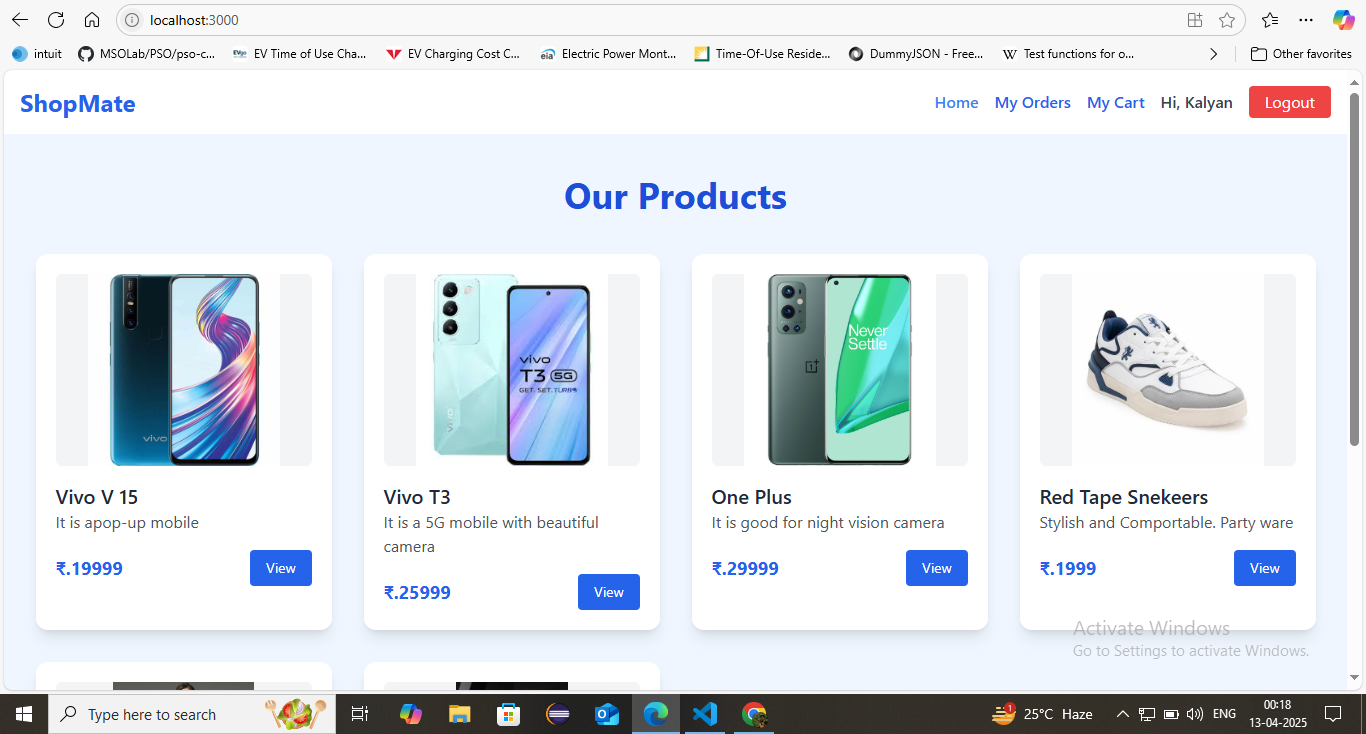
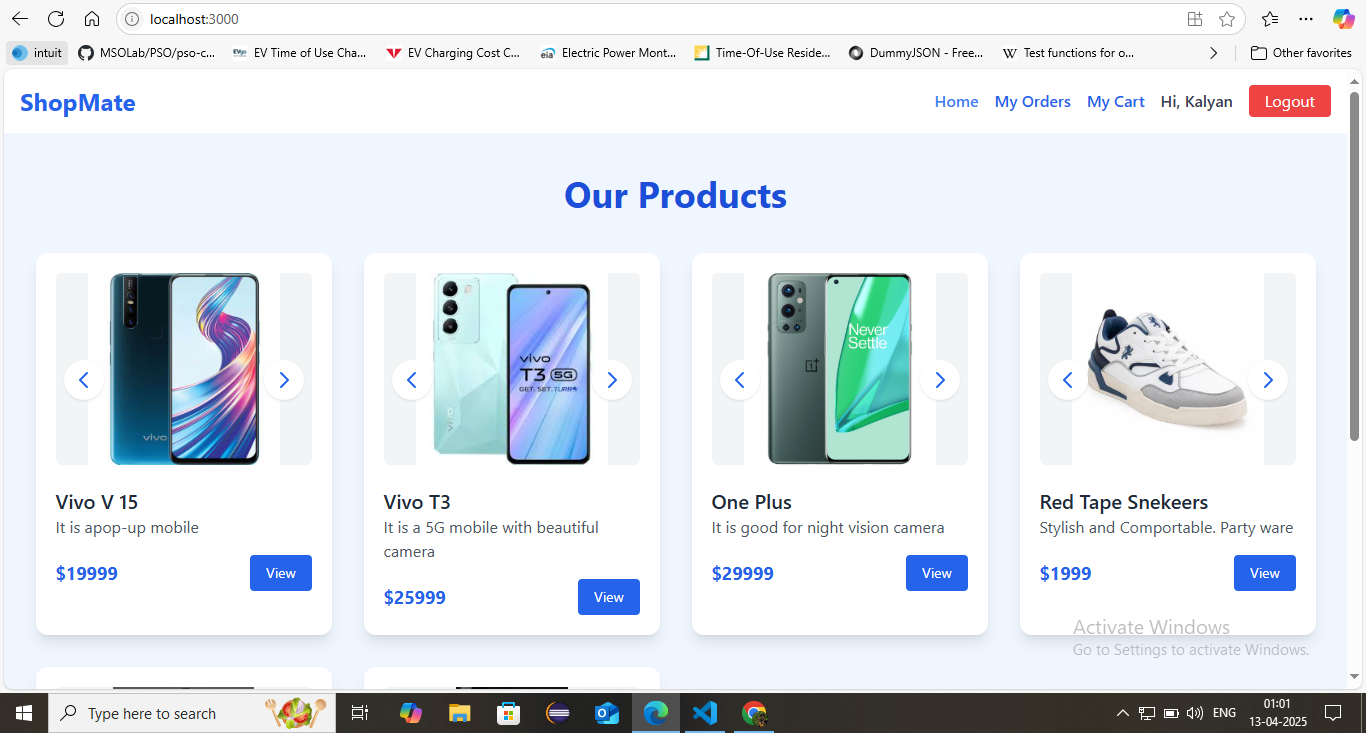
cart page updated!

diff --git a/front-end/src/pages/ProductDetails.jsx b/front-end/src/pages/ProductDetails.jsx
@@ -5,36 +5,8 @@ import Slider from 'react-slick';
 import { useCart } from '../context/CartContext'; // adjust path as needed
 import { toast } from 'react-toastify';
 import { Link } from 'react-router-dom';
+import { sliderSettings } from './SliderSettings'
 
-
-const NextArrow = (props) => {
-    const { onClick } = props;
-    return (
-      <div
-        onClick={onClick}
-        className="absolute right-2 top-1/2 transform -translate-y-1/2 z-10 cursor-pointer bg-white p-2 rounded-full shadow hover:bg-blue-100"
-      >
-        <svg xmlns="http://www.w3.org/2000/svg" className="h-6 w-6 text-blue-600" fill="none" viewBox="0 0 24 24" stroke="currentColor">
-          <path strokeLinecap="round" strokeLinejoin="round" strokeWidth="2" d="M9 5l7 7-7 7" />
-        </svg>
-      </div>
-    );
-  };
-  
-  const PrevArrow = (props) => {
-    const { onClick } = props;
-    return (
-      <div
-        onClick={onClick}
-        className="absolute left-2 top-1/2 transform -translate-y-1/2 z-10 cursor-pointer bg-white p-2 rounded-full shadow hover:bg-blue-100"
-      >
-        <svg xmlns="http://www.w3.org/2000/svg" className="h-6 w-6 text-blue-600" fill="none" viewBox="0 0 24 24" stroke="currentColor">
-          <path strokeLinecap="round" strokeLinejoin="round" strokeWidth="2" d="M15 19l-7-7 7-7" />
-        </svg>
-      </div>
-    );
-  };
-  
 
 const ProductDetails = () => {
   const { id } = useParams();
@@ -67,15 +39,7 @@ const ProductDetails = () => {
   if (loading) return <div className="text-center py-10 text-lg">Loading...</div>;
   if (!product) return <div className="text-center py-10 text-red-500">Product not found.</div>;
 
-  const sliderSettings = {
-    dots: false,
-    infinite: true,
-    speed: 500,
-    slidesToShow: 1,
-    slidesToScroll: 1,
-    nextArrow: <NextArrow />,
-    prevArrow: <PrevArrow />
-  };
+
   
   return (
     <div className="min-h-screen bg-gradient-to-br from-white via-blue-50 to-blue-100 p-6 flex items-center justify-center">

diff --git a/front-end/src/pages/Home.jsx b/front-end/src/pages/Home.jsx
@@ -1,6 +1,8 @@
 import React, { useEffect, useState } from 'react';
 import axios from 'axios';
 import { Link } from 'react-router-dom';
+import Slider from 'react-slick';
+import { sliderSettings } from './SliderSettings'
 
 
 const Home = () => {
@@ -42,14 +44,20 @@ const Home = () => {
               className="bg-white rounded-xl shadow-lg p-5 hover:shadow-2xl transition-all"
             >
               
-              {
-              product.images && product.images.length > 0 && (
-                <img
-                  src={`http://localhost:5000/${product.images[0].path}`}
-                  alt={product.title}
-                  className="w-full h-48 object-contain rounded-md mb-4 bg-gray-100"
-                />
-              )}
+
+              <Slider {...sliderSettings}>
+                {
+                  product.images.map((img, index) => (
+                    <div key={index} className="flex items-center justify-center">
+                      <img
+                        src={`http://localhost:5000/uploads/products/${img.filename}`}
+                        alt={`product-${index}`}
+                        className="w-full h-48 object-contain rounded-md mb-4 bg-gray-100"
+                      />
+                    </div>
+                  ))
+                }
+              </Slider>
 
               <h2 className="text-xl font-semibold text-gray-800">{product.title}</h2>
               

diff --git a/front-end/src/pages/SliderSettings.jsx b/front-end/src/pages/SliderSettings.jsx
@@ -1,0 +1,37 @@
+export const NextArrow = (props) => {
+    const { onClick } = props;
+    return (
+      <div
+        onClick={onClick}
+        className="absolute right-2 top-1/2 transform -translate-y-1/2 z-10 cursor-pointer bg-white p-2 rounded-full shadow hover:bg-blue-100"
+      >
+        <svg xmlns="http://www.w3.org/2000/svg" className="h-6 w-6 text-blue-600" fill="none" viewBox="0 0 24 24" stroke="currentColor">
+          <path strokeLinecap="round" strokeLinejoin="round" strokeWidth="2" d="M9 5l7 7-7 7" />
+        </svg>
+      </div>
+    );
+  };
+  
+export const PrevArrow = (props) => {
+    const { onClick } = props;
+    return (
+      <div
+        onClick={onClick}
+        className="absolute left-2 top-1/2 transform -translate-y-1/2 z-10 cursor-pointer bg-white p-2 rounded-full shadow hover:bg-blue-100"
+      >
+        <svg xmlns="http://www.w3.org/2000/svg" className="h-6 w-6 text-blue-600" fill="none" viewBox="0 0 24 24" stroke="currentColor">
+          <path strokeLinecap="round" strokeLinejoin="round" strokeWidth="2" d="M15 19l-7-7 7-7" />
+        </svg>
+      </div>
+    );
+  };
+  
+  export   const sliderSettings = {
+    dots: false,
+    infinite: true,
+    speed: 500,
+    slidesToShow: 1,
+    slidesToScroll: 1,
+    nextArrow: <NextArrow />,
+    prevArrow: <PrevArrow />
+  };

diff --git a/front-end/src/pages/Login.jsx b/front-end/src/pages/Login.jsx
@@ -23,9 +23,10 @@ const Login = () => {
       const res = await axios.post('http://localhost:5000/api/auth/login', form);
 
       login(res.data);
+      const user = res.data.user
 
-      toast.success('Logged in successfully!');
-
+      user.isAdmin ? toast.success('Logged in as Admin is successfully!') : toast.success('Logged in as User is successfully!') 
+      
       navigate('/');
     } 
     catch (err) 
